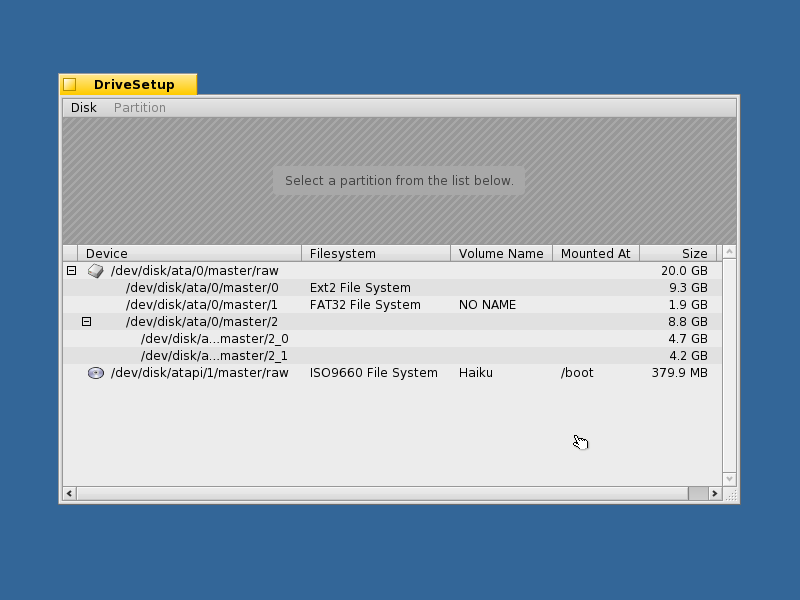
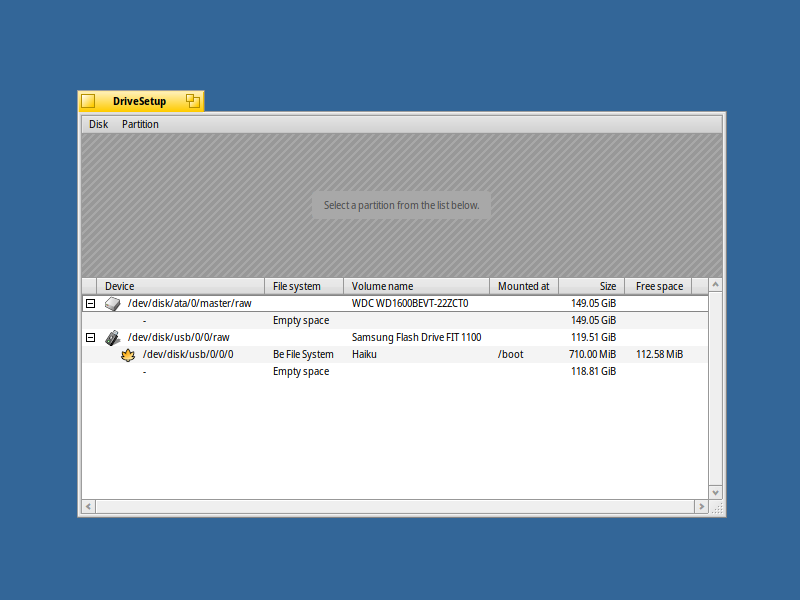
Updated installation guide
* Updated screenshots with current system font and GUI changes to
  FirstBootPrompt, DriveSetup, BootOptions.
* Use user guide screenshot style, i.e. 10pt fonts.
* Updated text to reflect those GUI changes (e.g. initialize <->
  format).
* Removed steps that just depict "Are you sure" alerts. Those don't
  need elaborate explanations with a screenshot.
* Update URLs to use https.
* Add links to the user guide / welcome page.

diff --git a/content/get-haiku/installation-guide.html b/content/get-haiku/installation-guide.html
@@ -14,37 +14,37 @@ tags = []
 </ul>
 </div>
 
-<div class="intro">Welcome to the Haiku installation guide! This document will help you install Haiku on your computer, guiding you through the Haiku installation one step at a time. Depending on your hardware configuration, the installation process can take as little as 15 minutes.</div>
+<div class="intro">Welcome to the Haiku installation guide! This document will help you install Haiku on your computer, guiding you through the Haiku installation one step at a time. Depending on your hardware configuration, the installation process can take ony a few minutes.</div>
 
 <h3>Preparing a Partition for Haiku</h3>
 
-<p>Currently, Haiku cannot resize existing partitions; therefore, you either need to already have an empty partition where you can install Haiku, or you need to create one using a third party tool. If your current OS comes with a partitioning tool, try to use that. Otherwise, you can use specialized tools like the freely available <a href="http://gparted.sourceforge.net/livecd.php">GParted LiveCD</a>. A standard 32-bit install of Haiku requires about 1.3 GiB of disk space (64-bit install is about double), so the partition doesn't need to be huge. However, you may want to leave some room for stuff, so 3 GiB+ is the recommended partition size.</p>
+<p>Currently, Haiku cannot resize existing partitions; therefore, you either need to already have an empty partition where you can install Haiku, or you need to create one using a third party tool. If your current OS comes with a partitioning tool, try to use that. Otherwise, you can use specialized tools like the freely available <a href="https://gparted.org/livecd.php">GParted LiveCD</a>. A standard 32-bit install of Haiku requires about 1.3 GiB of disk space (64-bit install is about double), so the partition doesn't need to be huge. However, you may want to leave some room for 3rd party applications, so 3+ GiB is the recommended partition size.</p>
 
-<p>Whenever your disk has multiple partitions, you will also need a boot loader such as <a href="http://www.gnu.org/software/grub/manual/grub.html">GRUB</a> to be able to boot into Haiku (and any other systems that you may have installed in the remaining partitions). In some cases, it is also possible to use the Haiku Boot Manager.</p>
+<p>Whenever your disk has multiple partitions, you will also need a boot loader such as <a href="https://www.gnu.org/software/grub/manual/grub.html">GRUB</a> to be able to boot into Haiku (and any other systems that you may have installed in the remaining partitions). In some cases, it is also possible to use the Haiku Boot Manager.</p>
 
 <h3>Let's Start the Installation!</h3>
 
-<p>Insert the Haiku Installer CD into your CD-ROM drive and power up your system.</p>
+<p>Insert the Haiku Installer CD into your CD-ROM drive or pop in the prepared installation USB drive and power up your system. You may have to enter the computer's BIOS to set the boot order.</p>
 
 <p><figure role="group">
 	<a id="step-1" name="step-1"></a>
 	<img src="/files/images/installation_guide/1-boot-splash.png" alt="Haiku boot splash screen" />
-<figcaption><p class="step">1</p><p class="caption">After a few seconds, you should see the Haiku boot splash screen.</p>
+<figcaption><p class="step">1</p><p class="caption">After a few seconds you should see the Haiku boot splash screen, its icons lighting up one after another.</p>
 </figcaption></figure></p>
 
-<div class="alert alert-info"><p>If any of the screens below fail to appear, try the fail safe mode options which can be enabled by holding <span class="key">SHIFT</span> before the CD starts to load. See <a href="/docs/userguide/en/bootloader.html">Boot Loader</a> for details. Please also consider reporting the issue at <a href="https://dev.haiku-os.org/">the bug tracker</a>.</p></div>
+<div class="alert alert-info"><p>If the blue Desktop doesn't appear after all the splash screen's icons have lit up, try the fail safe mode options which can be enabled by holding <span class="key">SHIFT</span> before splash screen appears. See <a href="/docs/userguide/en/bootloader.html">Boot Loader</a> for details. Please also consider reporting the issue at <a href="https://dev.haiku-os.org/">the bug tracker</a>.</p></div>
 
 <p><figure role="group">
 	<a id="step-2" name="step-2"></a>
-	<img src="/files/images/installation_guide/2-mode-selection.png" alt="Choose the Installer option">
+	<img src="/files/images/installation_guide/2-mode-selection.png" alt="Choose the Install Haiku option">
 <figcaption><p class="step">2</p><p class="caption">This panel (depending on your hardware it can take a while to appear) lets you set the system language and keymap.<br />
-Then you decide to either install Haiku on a partition by clicking <span class="button">Run Installer</span> or try out Haiku by booting to the desktop directly from CD by choosing <span class="button">Desktop (Live-CD)</span>. Run the Installer.</p>
+Then you decide to either <span class="button">Install Haiku</span> on a partition or <span class="button">Try Haiku</span> by booting to the desktop directly from CD/USB drive. Choose to install Haiku for this guide.</p>
 </figcaption></figure></p>
 
 <p><figure role="group">
 	<a id="step-3" name="step-3"></a>
 	<img src="/files/images/installation_guide/3-installer-notice.png" alt="Some pre-install information">
-<figcaption><p class="step">3</p><p class="caption">Before the Haiku Installer starts, a notice is displayed. It contains information regarding prior partition setup (as described above) and GRUB setup (as described further down in this guide). Click on <span class="button">Continue</span> to proceed to the Installer.</p>
+<figcaption><p class="step">3</p><p class="caption">Before the Haiku <a href="/docs/userguide/en/applications/installer.html">Installer</a> starts, a notice is displayed. It contains information regarding prior partition setup (as described above) and GRUB setup (as described further down in this guide). Click <span class="button">Continue</span> to proceed to the Installer.</p>
 </figcaption></figure></p>
 
 <p><figure role="group">
@@ -56,92 +56,84 @@ Then you decide to either install Haiku on a partition by clicking <span class="
 <p><figure role="group">
 	<a id="step-5" name="step-5"></a>
 	<img src="/files/images/installation_guide/5-launch-drivesetup.png" alt="Start DriveSetup" />
-<figcaption><p class="step">5</p><p class="caption">When there is no BFS partition available, or if you want to use a differently formatted partition, you use the DriveSetup partitioning application. Click on <span class="button">Setup&nbsp;partitions&hellip;</span> to start DriveSetup.</p>
+<figcaption><p class="step">5</p><p class="caption">When there is no BFS partition available, or if you want to use a differently formatted partition, you use the <a href="/docs/userguide/en/applications/drivesetup.html">DriveSetup</a> partitioning application. Click on <span class="button">Setup&nbsp;partitions&hellip;</span> to start DriveSetup.</p>
 </figcaption></figure></p>
 
 <p><figure role="group">
 	<a id="step-6" name="step-6"></a>
 	<img src="/files/images/installation_guide/6-drivesetup-initial.png" alt="The initial DriveSetup view" />
-<figcaption><p class="step">6</p><p class="caption">Haiku's partition manager DriveSetup shows the disks and partitions that have been identified.</p>
+<figcaption><p class="step">6</p><p class="caption">Haiku's partition manager DriveSetup shows the disks and partitions that have been identified. In this example, there's just one empty harddisk of 149 GiB and the booting USB stick with the 710 MiB Haiku partition we'll install from.</p>
 </figcaption></figure></p>
 
 <p><figure role="group">
 	<a id="step-7" name="step-7"></a>
-	<img src="/files/images/installation_guide/7-partition-select.png" alt="Select the target partition" />
-<figcaption><p class="step">7</p><p class="caption">In this example, there already are two primary partitions. One of about 9 GiB using an Ext2 File System, and another one of 2 GiB with a FAT32 File System. There are also two extended partitions that are still empty. These partitions have been previously prepared using a partitioning tool.<br />
-Now selecting the partition you want to install Haiku on. As soon as you click on a disk, its partition layout will be graphically represented. You can then also choose the partition by clicking on it in the layout graphic. The currently selected partition is marked by a blue border in the layout graphic.</p>
+	<img src="/files/images/installation_guide/7-initialize_IPM.png" alt="Select the target partition" />
+<figcaption><p class="step">7</p><p class="caption">If you don't have a blank drive to install Haiku on, but an already existing partition, jump forward to <a href="#step-11">step 11</a>.</p>
+<p>Start by selecting the target hard drive - the selected drive/partition gets highlighted with a blue border in the top view. Then choose <span class="menu">Initialize | Intel Partition Map&hellip;</span> from the <span class="menu">Disk</span> menu.</p>
 </figcaption></figure></p>
 
 <p><figure role="group">
 	<a id="step-8" name="step-8"></a>
-	<img src="/files/images/installation_guide/8-initialize.png" alt="Select the Be File System for initialization" />
-<figcaption><p class="step">8</p><p class="caption">To initialize a partition to the Be File System, make sure the right partition is selected, then use the menu <span class="menu">Partition | Format | Be File System&hellip;</span>.</p>
+	<img src="/files/images/installation_guide/8-confirm_init_IPM.png" alt="Initialize the Intel Partition Map" />
+<figcaption><p class="step">8</p><p class="caption">If you're quite sure you've selected the right hard drive (!), click <span class="button">Write changes</span>.<br />
+It only takes a second and an alert announces that your hard drive has been sucessfully initialized. Dismiss with <span class="button">OK</span>.</p>
 </figcaption></figure></p>
 
 <p><figure role="group">
 	<a id="step-9" name="step-9"></a>
-	<img src="/files/images/installation_guide/9-initialize-warning.png" alt="Continue from the alert" />
-<figcaption><p class="step">9</p><p class="caption">An alert will pop up to ask if the initialization should be started. If you are still sure you have the right partition selected, click  <span class="button">Continue</span>, otherwise <span class="button">Cancel</span> the initialization.<br />
-As the alert says, you can still abort initialization before writing any changes to disk later.</p>
+	<img src="/files/images/installation_guide/9-create_partition.png" alt="Create a partition" />
+<figcaption><p class="step">9</p><p class="caption">To create the target partition, select the empty space of the initialized drive and choose <span class="menu">Partition | Create&hellip;</span>.</p>
 </figcaption></figure></p>
 
 <p><figure role="group">
 	<a id="step-10" name="step-10"></a>
-	<img src="/files/images/installation_guide/10-filesystem-name.png" alt="Fill in the file system name" />
-<figcaption><p class="step">10</p><p class="caption">Now you enter the name for the new partition, or simply leave the suggested "Haiku". You can also select another blocksize; the default of 2048 should be fine for most uses, though.<br />
-Click <span class="button">Initialize</span> to continue.</p>
+	<img src="/files/images/installation_guide/10-partition-options.png" alt="Options for the partition" />
+<figcaption><p class="step">10</p><p class="caption">A panel opens to set the <span class="menu">Partition size</span> with the slider at the top. As <span class="menu">Partition type</span> choose <span class="menu">Be File System</span> and mark it as <span class="menu">Active partition</span>. Otherwise it cannot be booted.<br />
+After clicking <span class="button">Create</span> you'll again be informed that this will erase all data. If you're sure, click <span class="button">Write changes</span>.</p>
 </figcaption></figure></p>
-
-<div class="alert alert-warning"><p>This is the last step before the initialization is executed! All data on the selected partition will be irrecoverably lost!</p></div>
 
 <p><figure role="group">
 	<a id="step-11" name="step-11"></a>
-	<img src="/files/images/installation_guide/11-write-to-disk.png" alt="Warning before writing back changes" />
-<figcaption><p class="step">11</p><p class="caption">If everything still looks fine, click <span class="button">Write changes</span>, otherwise abort with the <span class="button">Cancel</span> button.</p>
+	<img src="/files/images/installation_guide/11-format-partition.png" alt="Format the partition" />
+<figcaption><p class="step">11</p><p class="caption">Now it's time to format. Select the newly created partiton and from the <span class="menu">Partition</span> menu, choose <span class="menu">Format | Be File System&hellip;</span>.</p>
 </figcaption></figure></p>
 
 <p><figure role="group">
 	<a id="step-12" name="step-12"></a>
-	<img src="/files/images/installation_guide/12-initialized.png" alt="The partition has been initialized to the Be File System" />
-<figcaption><p class="step">12</p><p class="caption">The partition has been initialized with the <b>Be File System</b>. Click <span class="button">OK</span> to close this notification.</p>
+	<img src="/files/images/installation_guide/12-format-options.png" alt="Format options" />
+<figcaption><p class="step">12</p><p class="caption">After another alert asked you to confirm that you really want to format the partition, a panel pops up where you can enter a <span class="menu">Name</span> and <span class="menu">Blocksize</span>. Leaving the default values is fine. The checkmark <span class="menu">Enable query support</span> should stay activated, as those fast attribute queries are vital for many Haiku features.<br />
+Click <span class="button">Format</span>.</p>
 </figcaption></figure></p>
 
 <p><figure role="group">
 	<a id="step-13" name="step-13"></a>
-	<img src="/files/images/installation_guide/13-quit-drivesetup.png" alt="Quit DriveSetup" />
-<figcaption><p class="step">13</p><p class="caption">You can now see the file system type and name has been updated in the list. Also, the graphical representation should now bear the correct name. The partition setup is now complete.<br />
-Close <b>DriveSetup</b> by clicking on close widget on the left upper corner of the yellow window tab.</p>
+	<img src="/files/images/installation_guide/13-format-finished.png" alt="Format the partition" />
+<figcaption><p class="step">13</p><p class="caption">One last time you're asked for confirmation and after clicking <span class="button">Write changes</span>, it only takes a few seconds and the formatting is finished.</p>
 </figcaption></figure></p>
 
 <p><figure role="group">
 	<a id="step-14" name="step-14"></a>
-	<img src="/files/images/installation_guide/14-select-target.png" alt="Select target volume" />
-<figcaption><p class="step">14</p><p class="caption">The Installer window re-appears and should now show an updated list of target partitions under <span class="menu">Onto</span>. Now choose your freshly initialized partition (or a pre-existing one if you already had one) as the installation target.</p>
+	<img src="/files/images/installation_guide/14-quit-drivesetup.png" alt="Quit DriveSetup" />
+<figcaption><p class="step">14</p><p class="caption">Click <span class="button">OK</span> to dismiss the alert informing you of the successful formatting. Now you see that the file system type and name has been updated in the list. The partition setup is now complete.<br />
+Quit DriveSetup by clicking the close widget at the top left corner of the window tab.</p>
 </figcaption></figure></p>
 
 <p><figure role="group">
 	<a id="step-15" name="step-15"></a>
-	<img src="/files/images/installation_guide/15-begin-install.png" alt="Begin the installation" />
-<figcaption><p class="step">15</p><p class="caption">The volume with the name <b>Haiku</b> has been chosen as the target for installation. Click on <span class="button">Begin</span> to start the installation.</p>
+	<img src="/files/images/installation_guide/15-select-target.png" alt="Select target volume" />
+<figcaption><p class="step">15</p><p class="caption">The Installer window re-appears and should now show an updated list of target partitions under <span class="menu">Onto</span>. Choose your freshly formatted partition as the installation target and click on <span class="button">Begin</span> to start the installation.</p>
 </figcaption></figure></p>
 
 <p><figure role="group">
 	<a id="step-16" name="step-16"></a>
-	<img src="/files/images/installation_guide/17-copying.png" alt="The Installer copies files" />
-<figcaption><p class="step">16</p><p class="caption">The installation process collects some information before starting to copy data. This can take a few seconds.<br />
-Soon after, packages start to be copied and a progress bar with a file count is displayed. While the copying is taking place, it is always possible to quit the process by clicking on the <span class="button">Stop</span> button.</p>
+	<img src="/files/images/installation_guide/16-copying.png" alt="The Installer copies files" />
+<figcaption><p class="step">16</p><p class="caption">The installation process collects some information before starting to copy data. This can take a few seconds, then packages start to be copied and a progress bar with a file count is displayed.</p>
+<p>When the copying is finished, the <span class="button">Stop</span> button turns to <span class="button">Quit</span>. Click it and the system will restart after a few seconds. Don't forget to remove the Haiku CD or USB drive to avoid booting from it again.
 </figcaption></figure></p>
 
-<p><figure role="group">
-	<a id="step-17" name="step-17"></a>
-	<img src="/files/images/installation_guide/18-install-done.png" alt="Installation is complete" />
-<figcaption><p class="step">17</p><p class="caption">When the copying process is finished, you can quit the installer by clicking on <span class="button">Quit</span>. The install CD will be ejected, and the system will restart after a few seconds. Do not forget to remove the Haiku CD from your drive.</p>
-</figcaption></figure></p>
-
-
-<p>Note that the Installer will take no steps to integrate Haiku into an existing boot manager menu. The Haiku partition itself will be made bootable, though. From the <b>Tools</b> menu you can launch the <b>Boot Manager</b> that puts a menu in the boot sector to choose what operating system to boot.<br />
-Boot Manager isn't yet tested very well and still has a few restrictions that it will complain about if they aren't met: the menu can only be installed on your first harddisk and there has to be a 2KiB space after the Master Boot Record (MBR).<br />
-You don't need to run Boot Manager if you already use a bootmanager like Grub, in which case you have to add Haiku manually, or Haiku runs exclusively on your machine. The Boot Manager panel will guide you through installing or uninstalling the boot menu.</p>
+<p>Note that the Installer will take no steps to integrate Haiku into an existing boot manager menu. The Haiku partition itself will be made bootable, though. From the <span class="menu">Tools</span> menu you can choose <span class="menu">Set up boot menu</span> that starts the <a href="/docs/userguide/en/applications/bootmanager.html">BootManager</a> to put a menu in the boot sector to choose what operating system to boot.<br />
+BootManager still has a few restrictions that it will complain about if they aren't met: the menu can only be installed on your first harddisk and there has to be a 2 KiB space after the Master Boot Record (MBR).<br />
+You don't need to run BootManager if you already use a bootmanager like Grub, in which case you have to add Haiku manually, or Haiku runs exclusively on your machine. The BootManager panel will guide you through installing or uninstalling the boot menu.</p>
 
 <p>Please see below for how you can add Haiku to an existing GRUB installation or how to use the CD to boot into a Haiku installation without adding it to the boot manager.</p>
 
@@ -229,19 +221,19 @@ So below the heading that must not be edited, add something similar to these lin
 
 <p><figure role="group">
 	<a id="step-2-1" name="step-2-1"></a>
-	<img src="/files/images/installation_guide/19-bootloader-menu.png" alt="The Boot Loader Menu" />
+	<img src="/files/images/installation_guide/17-bootloader-menu.png" alt="The Boot Loader Menu" />
 <figcaption><p class="step">1</p><p class="caption">To choose the installation to boot from, press <span class="key">ENTER</span> to navigate to the boot volume selection. Your installation should be listed there.</p>
 </figcaption></figure></p>
 
 <p><figure role="group">
 	<a id="step-2-2" name="step-2-3"></a>
-	<img src="/files/images/installation_guide/20-select-boot-volume.png" alt="Select the boot volume from the list" \>
+	<img src="/files/images/installation_guide/18-select-boot-volume.png" alt="Select the boot volume from the list" \>
 <figcaption><p class="step">2</p><p class="caption">Select the volume using the <span class="key">↑</span> / <span class="key">↓</span> keys and press <span class="key">ENTER</span> again to choose it as the boot volume and return to the main boot loader menu.</p>
 </figcaption></figure></p>
 
 <p><figure role="group">
 	<a id="step-2-3" name="step-2-3"></a>
-	<img src="/files/images/installation_guide/21-continue-booting.png" alt="Continue booting to boot Haiku" />
+	<img src="/files/images/installation_guide/19-continue-booting.png" alt="Continue booting to boot Haiku" />
 <figcaption><p class="step">3</p><p class="caption">The selection will automatically jump to <span class="menu">Continue booting</span>. Press <span class="key">ENTER</span> again to start booting into your Haiku installation.</p>
 </figcaption></figure></p>
 
@@ -252,8 +244,8 @@ So below the heading that must not be edited, add something similar to these lin
 <p>Once fully booted, you should be greeted by a screen like this:</p>
 
 <p><figure role="group">
-	<img src="/files/images/installation_guide/22-fully-booted.png" alt="The fully booted Haiku system" /></figure></p>
+	<img src="/files/images/installation_guide/20-fully-booted.png" alt="The fully booted Haiku system" /></figure></p>
 
-<p>Some background processing will still take place the first time you boot Haiku, so don't be alarmed by the disk activity. After a little while, the system should settle down. Make sure to read our <b>Welcome</b> documentation; there is a link on the Desktop.</p>
+<p>Some background processing will still take place the first time you boot Haiku, so don't be alarmed by the disk activity. After a little while, the system should settle down. Make sure to read our <a href="/docs/welcome/welome_en.html.html">Welcome</a> documentation and go through the Quick Tour; there are a links on the Desktop.</p>
 
 <p>Have fun and thanks a lot for trying out Haiku! We hope you'll like it! If you run into what you believe to be a bug, please file a report in <a href="https://dev.haiku-os.org/">our bug tracker</a>. Before filing a bug report, please take the time to quickly check if your issue has already been reported; it if has, then please add a comment if you have additional information, like how to reproduce the problem. If the issue hasn't been reported before, create a new ticket and provide as many useful details as you can.</p>
